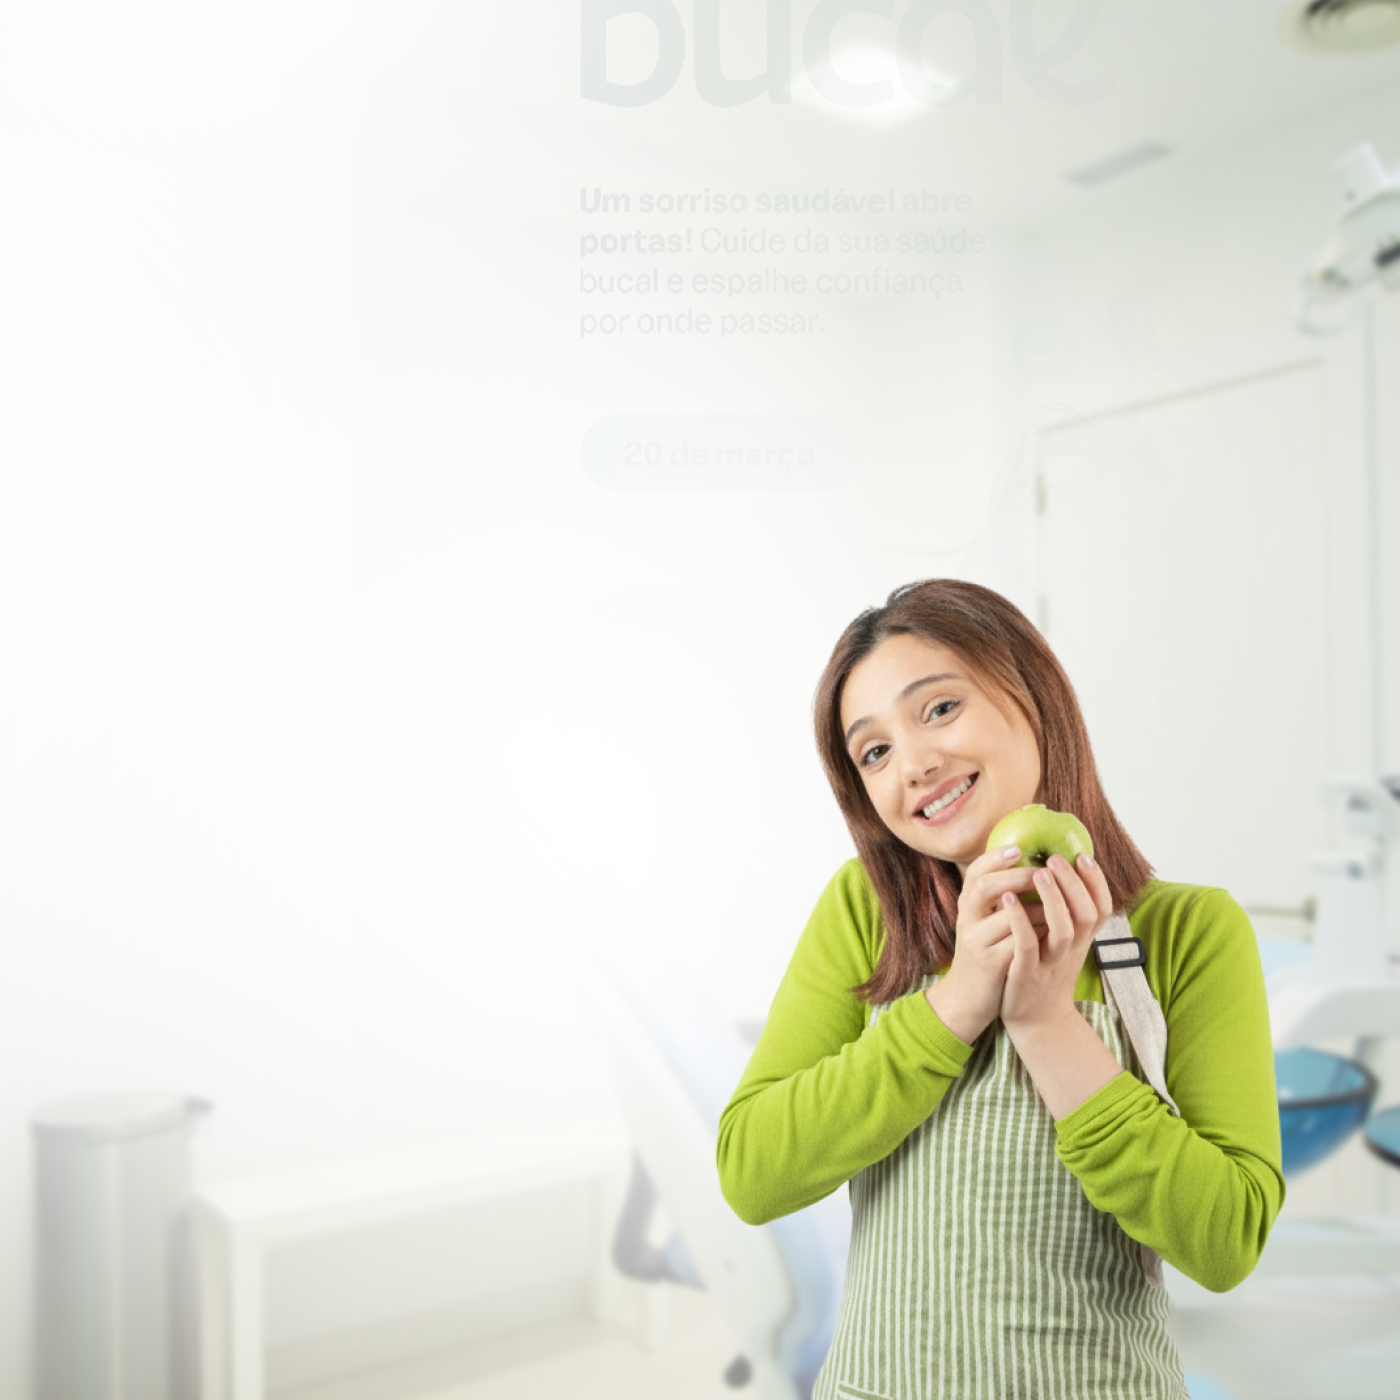
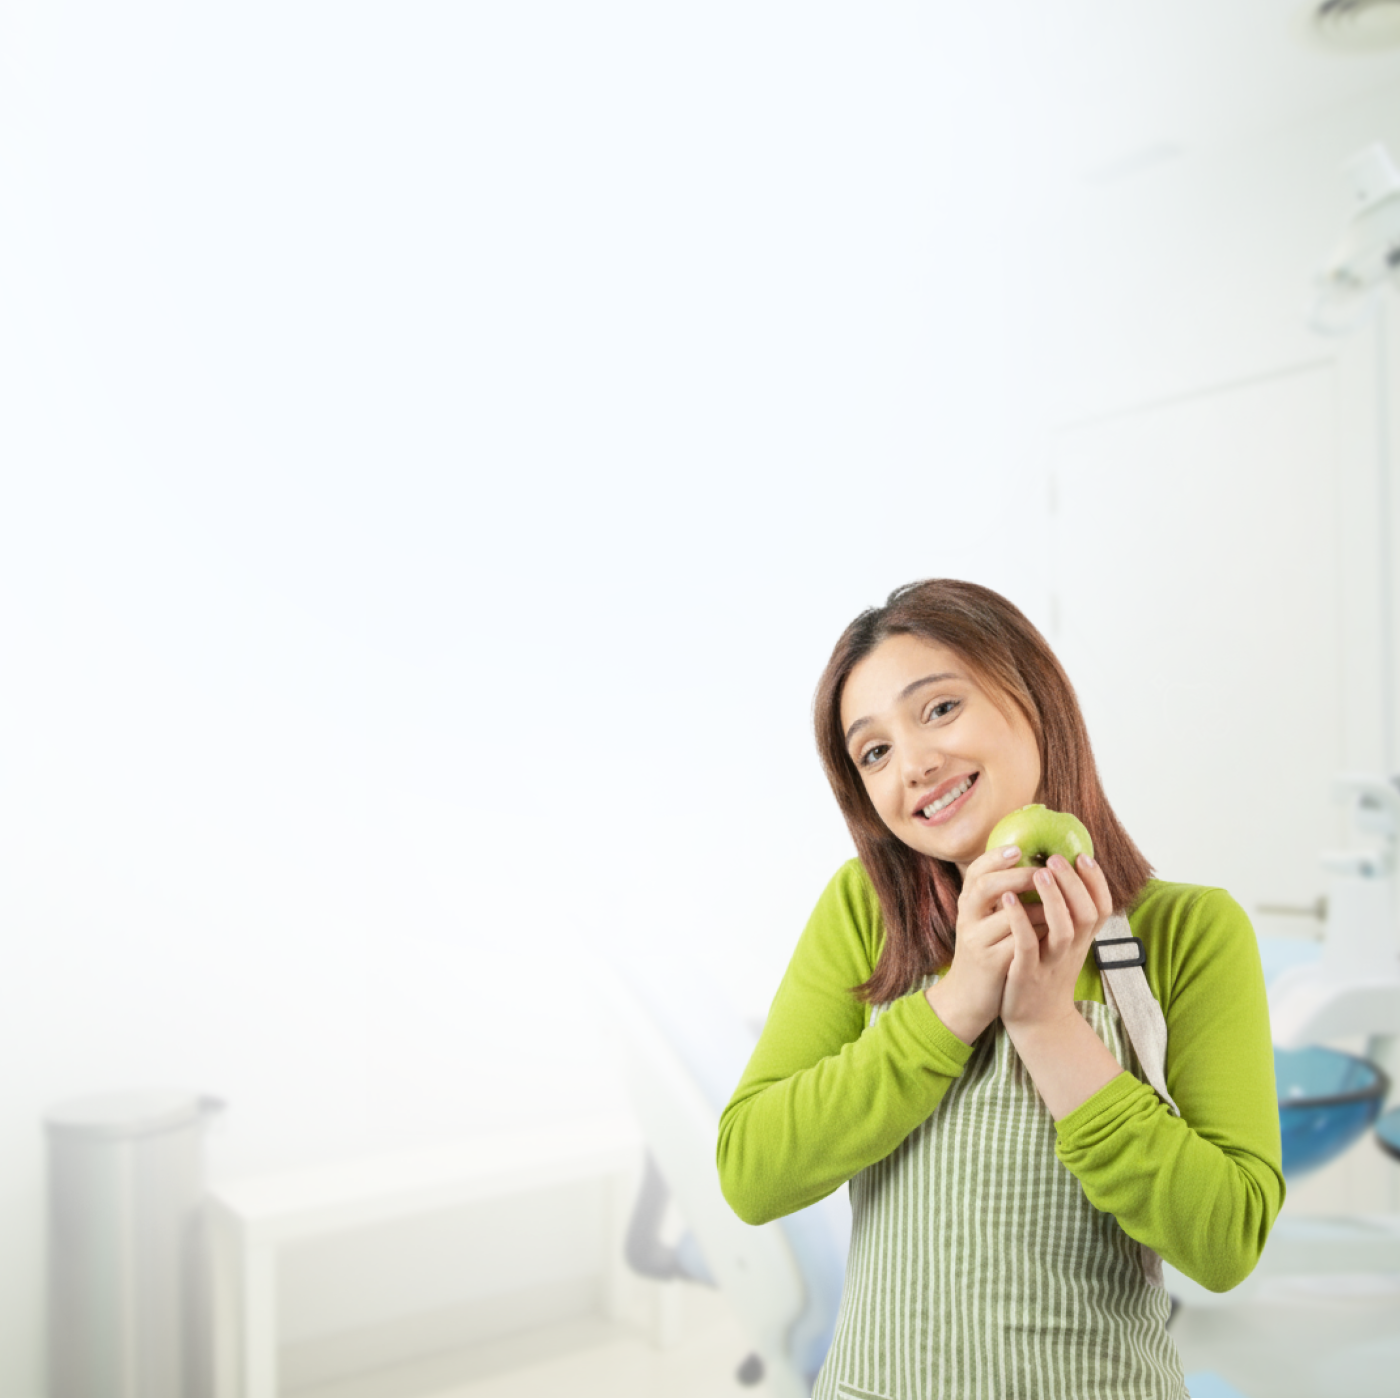
change all images

diff --git a/src/pages/blog/blogDetails.tsx b/src/pages/blog/blogDetails.tsx
@@ -4,8 +4,8 @@ import { useEffect } from "react"
 import Contact from "../../sections/contactUS"
 import Ready from "../../sections/ready"
 import { motion } from "framer-motion";
-import img from "../../assets/images/banner_without_content.png"
-import img_sm from "../../assets/images/dynamic_banner_sm.png"
+import img from "../../assets/images/blog.png"
+import img_sm from "../../assets/images/blog_sm.png"
 
 const container = {
   hidden: {},
